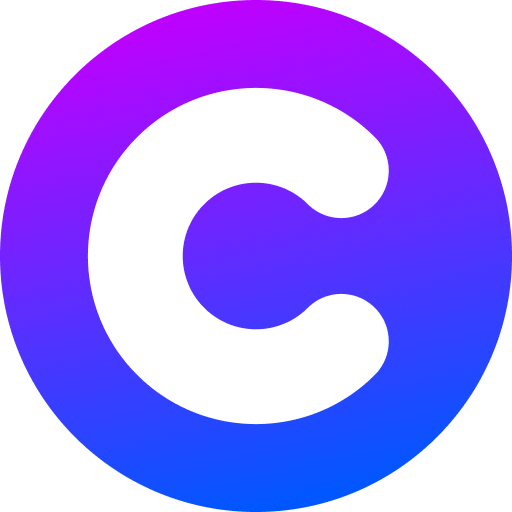
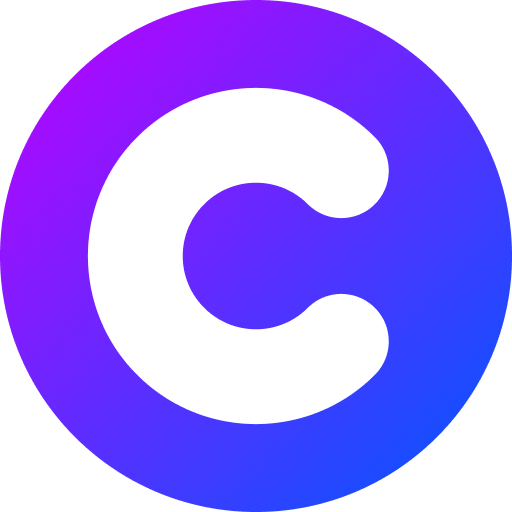
Header

Changed region(s): [[0.25, 0.0, 1.0, 0.5312], [0.0, 0.4688, 0.75, 1.0]]

diff --git a/cryptocons.io/src/components/Seo.tsx b/cryptocons.io/src/components/Seo.tsx
@@ -15,24 +15,24 @@ const SEO = ({ title, description, pathname, image, children }: Props) => {
 
     const {
         siteTitle,
-        siteTitleAlt: defaultTitle,
+        siteTitleAlt,
         siteUrl,
-        siteDescription: defaultDescription,
+        siteDescription,
         siteLanguage,
-        siteImage: defaultImage,
+        siteImage,
         author,
     } = site
 
     const seo = {
-        title: title || defaultTitle,
-        description: description || defaultDescription,
+        title: title || siteTitleAlt,
+        description: description || siteDescription,
         url: `${siteUrl}${pathname || ``}`,
-        image: `${siteUrl}${image || defaultImage}`,
+        image: `${siteUrl}${image || siteImage}`,
     }
     return (
         <Helmet
             title={title}
-            defaultTitle={defaultTitle}
+            defaultTitle={`${siteTitleAlt} - ${siteDescription}`}
             titleTemplate={`%s | ${siteTitle}`}
         >
             <html lang={siteLanguage} />
@@ -44,12 +44,12 @@ const SEO = ({ title, description, pathname, image, children }: Props) => {
             <meta property="og:image" content={seo.image} />
             <meta property="og:type" content="website" />
             <meta property="og:image:alt" content={seo.description} />
-            <meta name="twitter:title" content={seo.title} />
-            <meta name="twitter:image" content={seo.image} />
-            <meta name="twitter:image:alt" content={seo.description} />
             <meta name="twitter:card" content="summary_large_image" />
+            <meta name="twitter:title" content={seo.title} />
             <meta name="twitter:url" content={seo.url} />
             <meta name="twitter:description" content={seo.description} />
+            <meta name="twitter:image" content={seo.image} />
+            <meta name="twitter:image:alt" content={seo.description} />
             <meta name="twitter:creator" content={author} />
             {children}
         </Helmet>

diff --git a/src/components/CryptoconLogo.tsx b/src/components/CryptoconLogo.tsx
@@ -1,0 +1,36 @@
+import React from 'react'
+import { createIcon } from '../createIcon'
+
+export const CryptoconLogo = createIcon({
+    path: (
+        <>
+            <rect
+                x="2"
+                y="2"
+                width="20"
+                height="20"
+                rx="10"
+                fill="url(#CryptoconLogo_a)"
+            ></rect>
+            <path
+                fillRule="evenodd"
+                clipRule="evenodd"
+                d="M13.9616 10.0384C12.8783 8.95499 11.1217 8.95499 10.0384 10.0384C8.95498 11.1218 8.95498 12.8783 10.0384 13.9616C11.1217 15.045 12.8783 15.045 13.9616 13.9616C14.6626 13.2607 15.7991 13.2607 16.5 13.9616C17.201 14.6626 17.201 15.7991 16.5 16.5C14.0147 18.9853 9.98528 18.9853 7.5 16.5C5.01471 14.0147 5.01471 9.98529 7.5 7.5C9.98528 5.01472 14.0147 5.01472 16.5 7.5C17.201 8.20095 17.201 9.33742 16.5 10.0384C15.7991 10.7393 14.6626 10.7393 13.9616 10.0384Z"
+                fill="white"
+            ></path>
+            <defs>
+                <linearGradient
+                    id="CryptoconLogo_a"
+                    x1="9.95299"
+                    y1="2.44859"
+                    x2="14.2619"
+                    y2="21.4041"
+                    gradientUnits="userSpaceOnUse"
+                >
+                    <stop stopColor="#BD01FF"></stop>
+                    <stop offset="1" stopColor="#0157FF"></stop>
+                </linearGradient>
+            </defs>
+        </>
+    ),
+})

diff --git a/src/components/CryptoconLogoBadge.tsx b/src/components/CryptoconLogoBadge.tsx
@@ -1,0 +1,29 @@
+import React from 'react'
+import { createIcon } from '../createIcon'
+
+export const CryptoconLogoBadge = createIcon({
+    rectFill: 'url(#CryptoconLogoBadge_a)',
+    path: (
+        <>
+            <path
+                fillRule="evenodd"
+                clipRule="evenodd"
+                d="M14.4287 9.57136C13.0873 8.23005 10.9127 8.23005 9.57134 9.57136C8.23003 10.9127 8.23003 13.0874 9.57134 14.4287C10.9127 15.77 13.0873 15.77 14.4287 14.4287C15.2965 13.5608 16.7035 13.5608 17.5714 14.4287C18.4392 15.2965 18.4392 16.7035 17.5714 17.5714C14.4944 20.6484 9.50562 20.6484 6.42864 17.5714C3.35166 14.4944 3.35166 9.50564 6.42864 6.42866C9.50562 3.35168 14.4944 3.35168 17.5714 6.42866C18.4392 7.29649 18.4392 8.70353 17.5714 9.57136C16.7035 10.4392 15.2965 10.4392 14.4287 9.57136Z"
+                fill="white"
+            ></path>
+            <defs>
+                <linearGradient
+                    id="CryptoconLogoBadge_a"
+                    x1="3.53056e-7"
+                    y1="1"
+                    x2="22.7256"
+                    y2="24.268"
+                    gradientUnits="userSpaceOnUse"
+                >
+                    <stop stopColor="#BD01FF"></stop>
+                    <stop offset="1" stopColor="#0157FF"></stop>
+                </linearGradient>
+            </defs>
+        </>
+    ),
+})

diff --git a/cryptocons.io/src/components/header/index.tsx b/cryptocons.io/src/components/header/index.tsx
@@ -1,0 +1,17 @@
+import React from 'react'
+import { Link } from 'gatsby'
+import { Box, Divider } from '@chakra-ui/react'
+import { CryptoconLogo } from '../../../../src'
+
+const Header = () => (
+    <Box as="header">
+        <Box py={2}>
+            <Link to="/" aria-label="Navigate home">
+                <CryptoconLogo size={40} />
+            </Link>
+        </Box>
+        <Divider />
+    </Box>
+)
+
+export default Header

diff --git a/src/types.ts b/src/types.ts
@@ -15,6 +15,7 @@ export type LogoNames =
     | 'Coinone'
     | 'Compound'
     | 'CryptoCom'
+    | 'CryptoconLogo'
     | 'CurrencyCom'
     | 'Curve'
     | 'Digifinex'
@@ -52,6 +53,7 @@ export type BadgeNames =
     | 'CoinoneBadge'
     | 'CompoundBadge'
     | 'CryptoComBadge'
+    | 'CryptoconLogoBadge'
     | 'CurrencyComBadge'
     | 'CurveBadge'
     | 'DigifinexBadge'

diff --git a/src/components/index.ts b/src/components/index.ts
@@ -30,6 +30,8 @@ export * from './Compound'
 export * from './CompoundBadge'
 export * from './CryptoCom'
 export * from './CryptoComBadge'
+export * from './CryptoconLogo'
+export * from './CryptoconLogoBadge'
 export * from './CurrencyCom'
 export * from './CurrencyComBadge'
 export * from './Curve'

diff --git a/cryptocons.io/src/components/Layout.tsx b/cryptocons.io/src/components/Layout.tsx
@@ -1,9 +1,11 @@
 import React from 'react'
 import SEO from './Seo'
+import Header from './header'
 
 export const Layout: React.FC = ({ children }) => (
     <React.Fragment>
         <SEO />
+        <Header />
         {children}
     </React.Fragment>
 )

diff --git a/cryptocons.io/src/pages/index.tsx b/cryptocons.io/src/pages/index.tsx
@@ -1,7 +1,7 @@
 import React from 'react'
 
 const IndexPage = () => {
-    return <main>Hi</main>
+    return <main></main>
 }
 
 export default IndexPage
